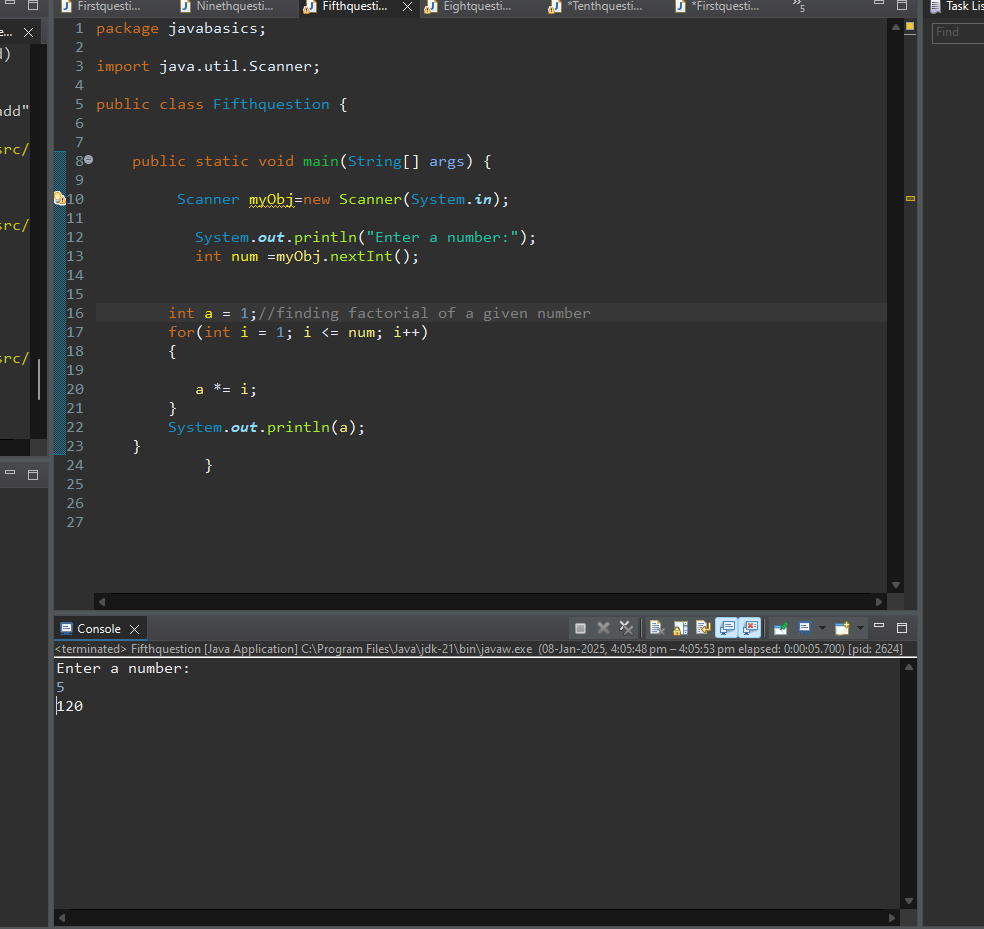
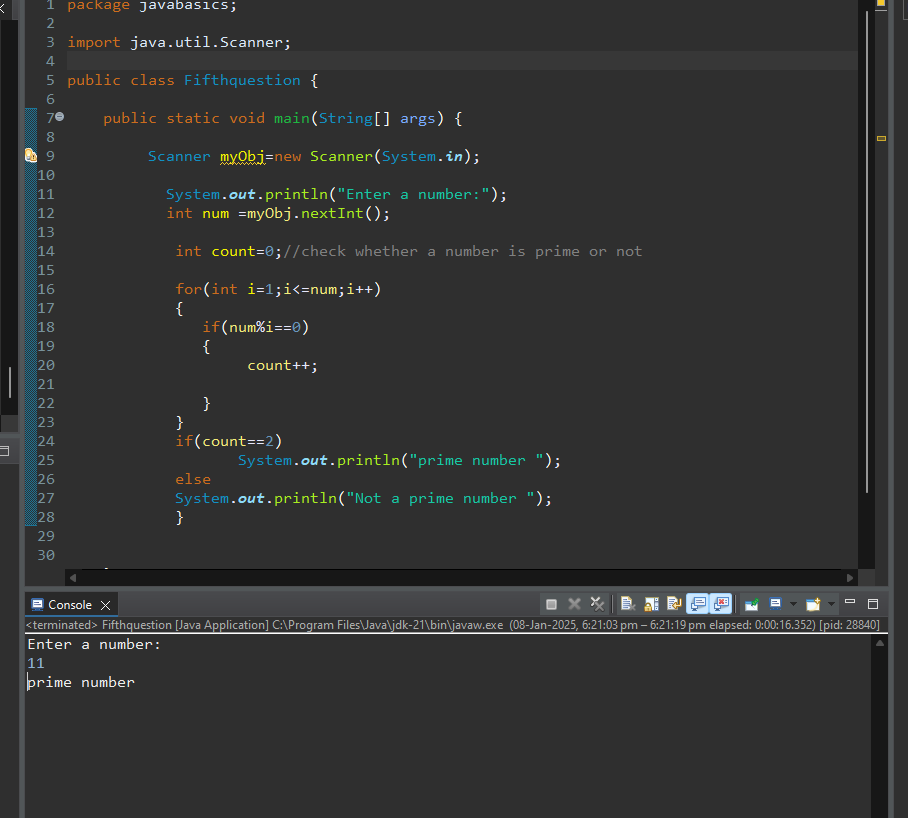
changes made

Changed region(s): [[0.0, 0.0, 1.0, 1.0], [0.4934, 0.3056, 0.6476, 0.3667], [0.6784, 0.3056, 0.7093, 0.3362]]

diff --git a/Fifthquestion.java b/Fifthquestion.java
@@ -3,24 +3,31 @@ package javabasics;
 import java.util.Scanner;
 
 public class Fifthquestion {
-	
-	
+
 	public static void main(String[] args) {
-		
+
 		 Scanner myObj=new Scanner(System.in);
 			
 		   System.out.println("Enter a number:");
 		   int num =myObj.nextInt();
+		  
+		   	int count=0;//check whether a number is prime or not
+		                  
+		   	for(int i=1;i<=num;i++)
+		   	{
+		   	   if(num%i==0)
+		   	   {
+		   	        count++;
+		   	        
+		   	   }
+		   	}
+		   	if(count==2)
+		   	       System.out.println("prime number ");
+		   	else
+		   	System.out.println("Not a prime number ");	        
+		   	}
+		   
+		   
+	}
 
-       
-        int a = 1;//finding factorial of a given number
-        for(int i = 1; i <= num; i++)
-        {
-           
-           a *= i;
-        }
-        System.out.println(a);
-    }
-			}
-		
-	
+

diff --git a/Sixthquestion1.java b/Sixthquestion1.java
@@ -1,0 +1,26 @@
+package javabasics;
+
+import java.util.Scanner;
+
+public class Sixthquestion1 {
+	
+	
+	public static void main(String[] args) {
+		Scanner myObj=new Scanner(System.in);
+		
+		   System.out.println("Enter a number:");
+		   int num =myObj.nextInt();
+
+       
+        int a = 1;//finding factorial of a given number
+        for(int i = 1; i <= num; i++)
+        {
+           
+           a *= i;
+        }
+		 
+        System.out.println(a);
+    }
+			}
+		
+	
